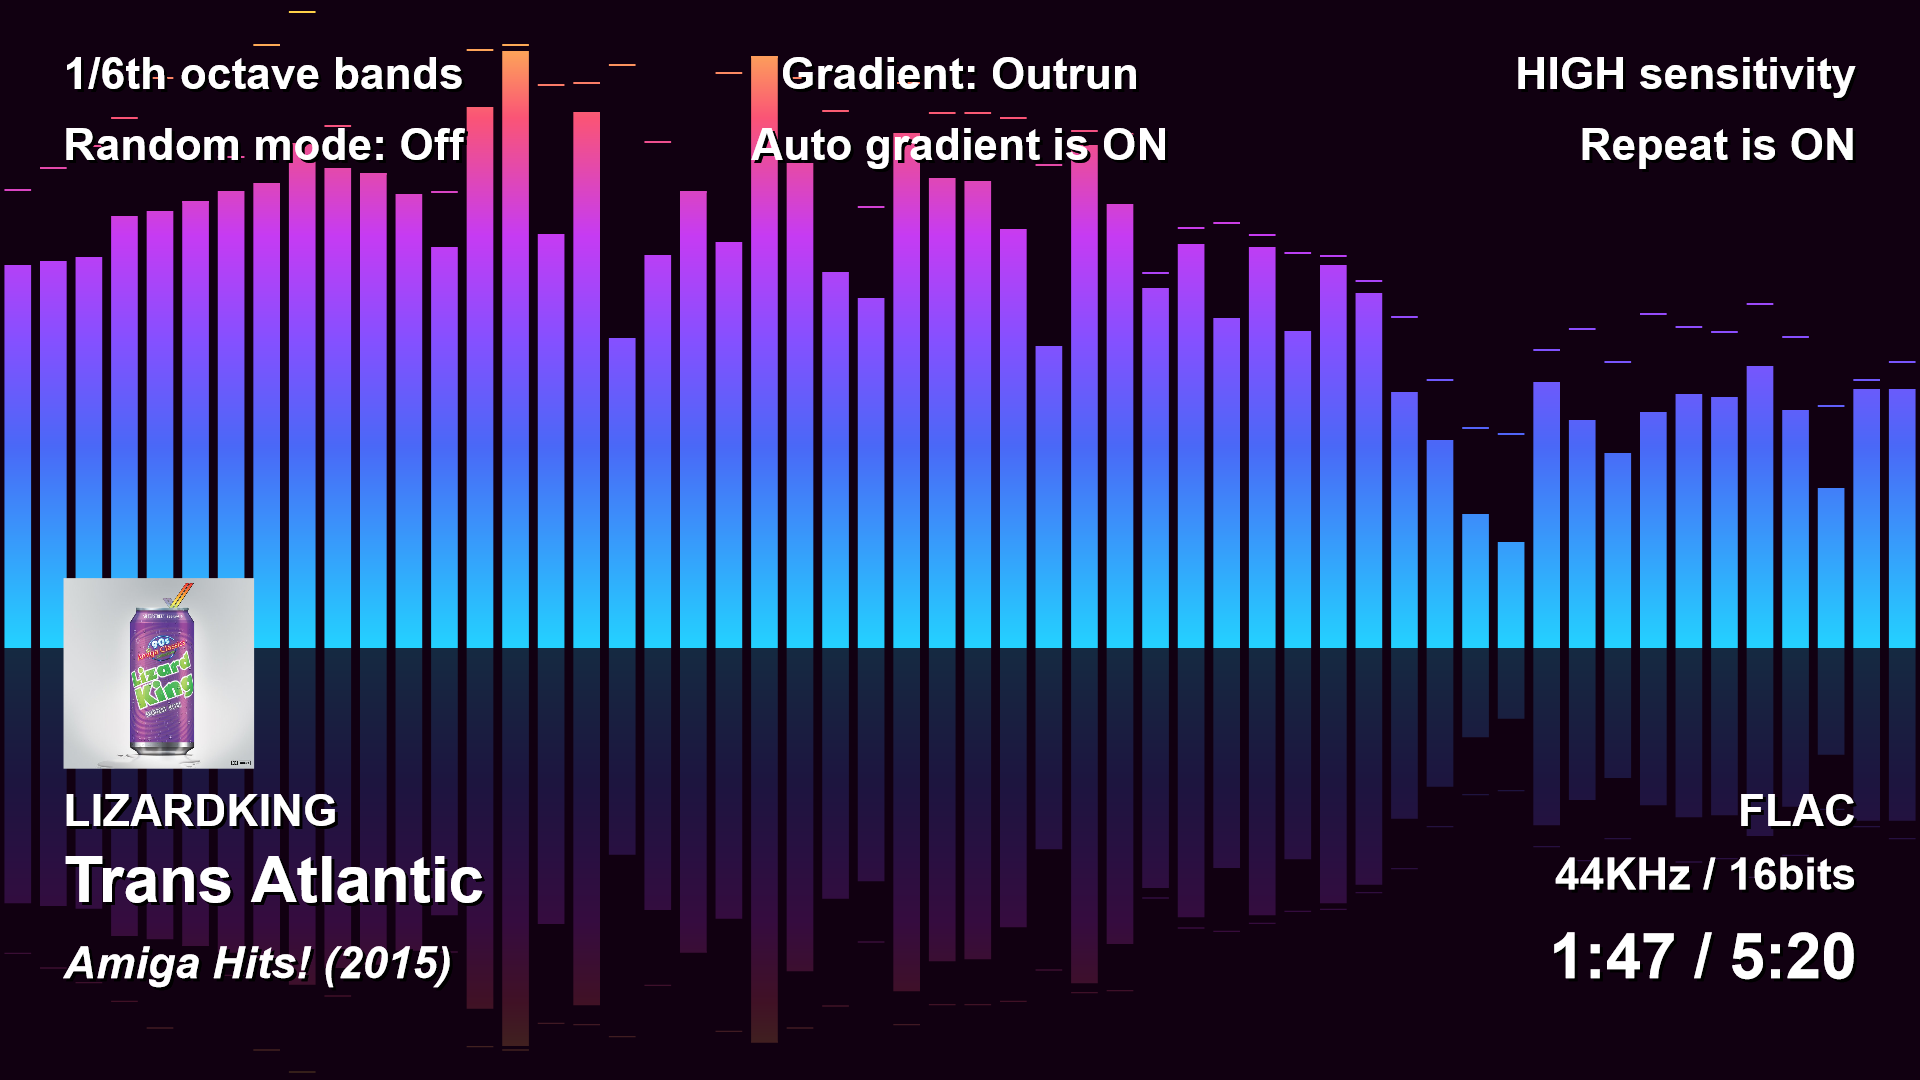
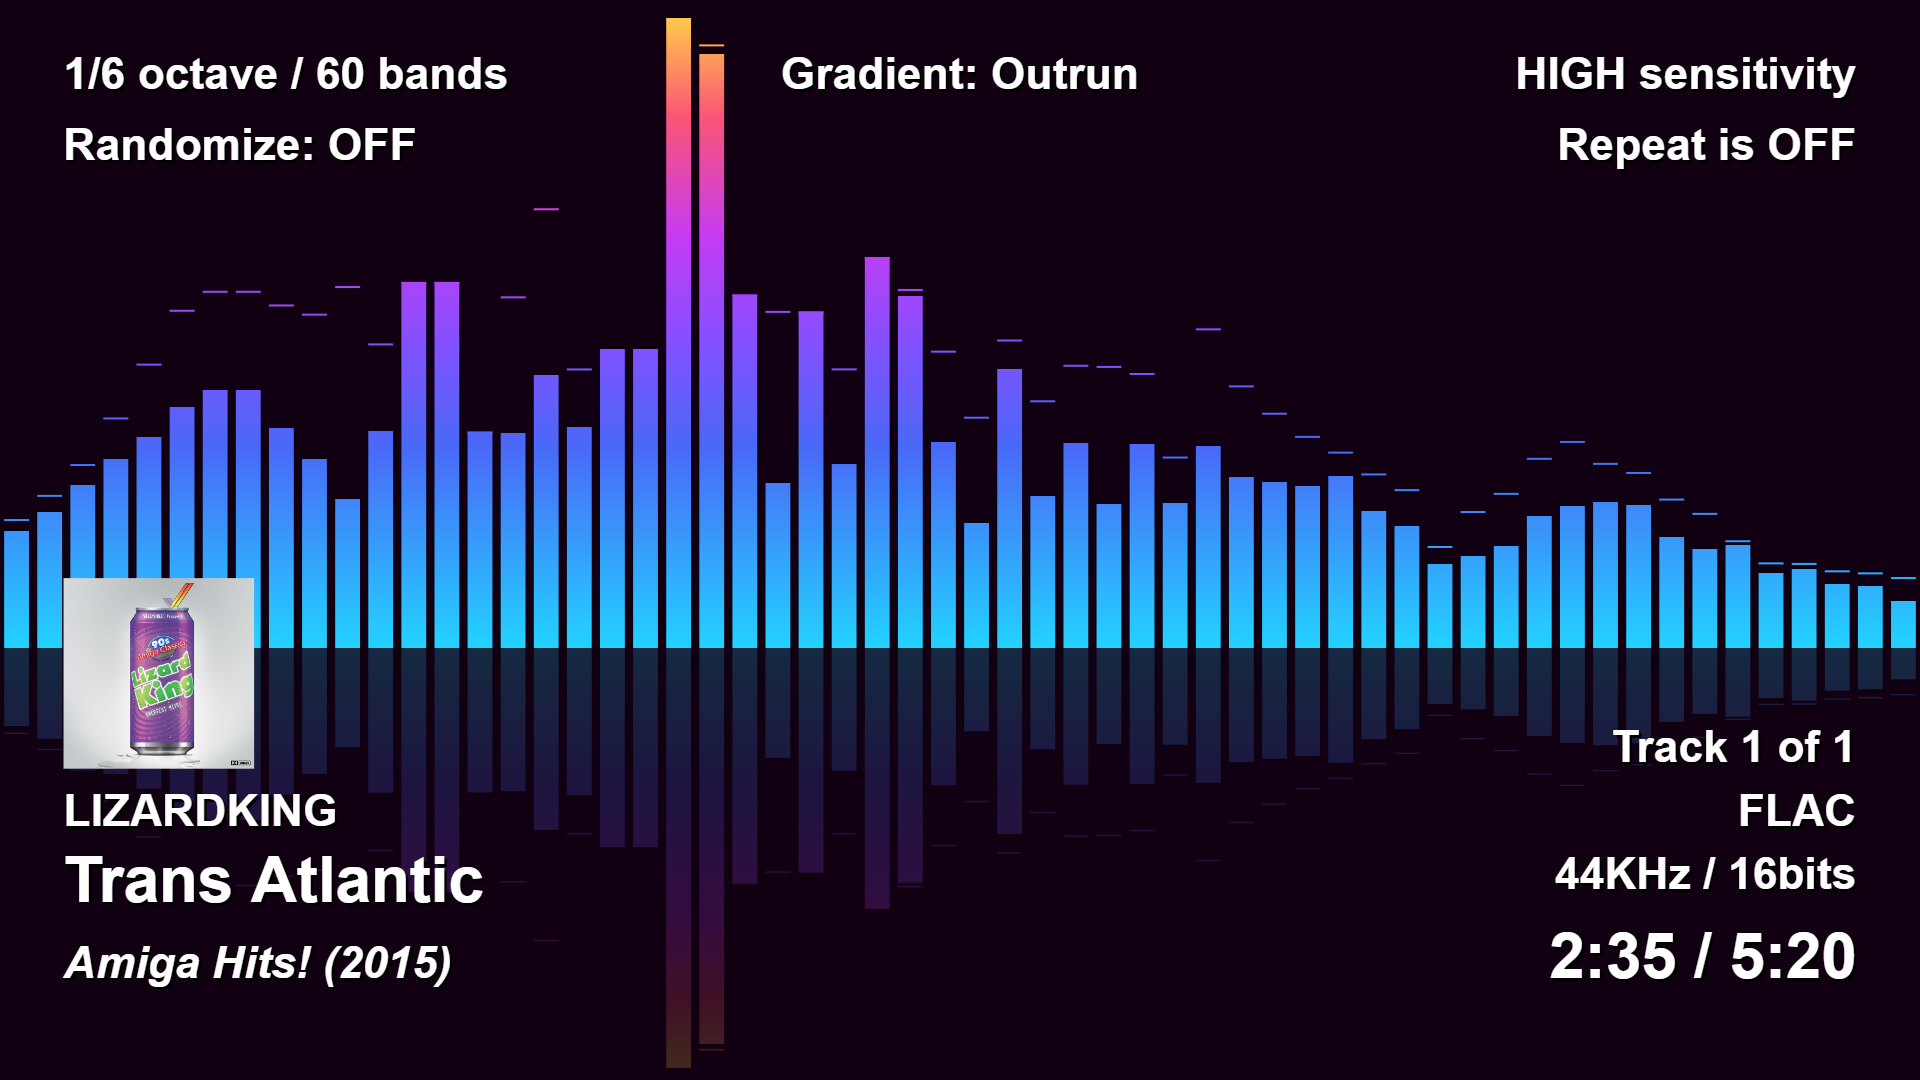
Update documentation and screenshots.

diff --git a/docs/index.html b/docs/index.html
@@ -4,13 +4,13 @@
 	<meta charset="UTF-8">
 	<title>audioMotion</title>
 	<meta http-equiv="X-UA-Compatible" content="IE=edge,chrome=1" />
-	<meta name="description" content="High-resolution real-time spectrum analyzer and media player">
+	<meta name="description" content="audioMotion | media player and real-time audio spectrum analyzer">
 	<meta name="viewport" content="width=device-width, user-scalable=no, initial-scale=1.0, maximum-scale=1.0, minimum-scale=1.0">
 	<meta property="og:url" content="https://audiomotion.app">
 	<meta property="og:title" content="audioMotion">
 	<meta property="og:image" content="https://audiomotion.app/docs/img/audioMotion-header.png">
 	<meta property="og:site_name" content="audioMotion">
-	<meta property="og:description" content="High-resolution real-time audio spectrum analyzer and media player">
+	<meta property="og:description" content="media player and real-time audio spectrum analyzer">
 	<meta property="og:type" content="website">
 	<meta name="twitter:card" content="summary_large_image">
 	<meta name="twitter:site" content="@HenriqueVianna">

diff --git a/docs/styles.css b/docs/styles.css
@@ -3,7 +3,7 @@
 	--cover-background-color: transparent;
 	--cover-background-image: none;
 	--cover-background-mask-color: #000;
-	--cover-background-mask-opacity: .5;
+	--cover-background-mask-opacity: .25;
 	--cover-blockquote-color: #f0f0f0;
 	--cover-blockquote-font-size: 2rem;
 	--cover-button-background: #023c;

diff --git a/docs/screenshots.md b/docs/screenshots.md
@@ -1,22 +1,22 @@
 # Screenshots
 
 ![screenshot1](img/screenshot1.png)
-*User interface showing the analyzer in **Discrete frequencies** mode, player controls, file explorer and play queue.*
+*User interface showing the analyzer in **Discrete frequencies** mode, player control panel and media panel (file explorer and play queue).*
 
 ![screenshot2](img/screenshot2.png)
-*Analyzer set to 1/4th-octave bands mode with LEDs effect, extra wide bar spacing and on-screen song information. The **Settings** panel is shown open below.*
+*Analyzer set to 1/4th-octave bands mode with LEDS effect and on-screen song information. The **Settings** panel is shown open over the media panel.*
+
+![screenshot4](img/screenshot4.jpg)
+*Video playback, auto-hidden media panel, analyzer set to Area graph mode, "Rainbow" gradient, Linear amplitude and Notes scale.*
 
 ![screenshot3](img/screenshot3.png)
-*Fullscreen view: 1/6th-octave bands, regular bar spacing, "Outrun" gradient, Reflex effect and complete on-screen information.*
-
-![screenshot4](img/screenshot4.png)
-*Fullscreen view: Area graph mode, "Rainbow" gradient, frequency scale on.*
+*Fullscreen view: 1/6th-octave bands, "Outrun" gradient, Reflex effect and complete on-screen information.*
 
 ![screenshot5](img/screenshot5.png)
 *Fullscreen view: 1/8th-octave bands, LUMI effect on, "Tie Dye" gradient.*
 
 ![screenshot6](img/screenshot6.png)
-*Fullscreen view: Line graph, Stereo, frequency and level scales on, "Rainbow" gradient.*
+*Fullscreen view: Line graph, Vertical dual channel layout, frequency and level scales on, "Prism" gradient.*
 
 ![screenshot7](img/screenshot7.png)
 *Fullscreen view: 1/6th-octave bands, **Radial** analyzer, frequency scale on, "Apple ][" gradient.*

diff --git a/README.md b/README.md
@@ -10,7 +10,7 @@ It is completely free, open-source software, created out of my passion for the g
 
 ![screenshot2](docs/img/screenshot2.png)
 
-* High-resolution real-time dual channel audio spectrum analyzer
+* Dual channel high-resolution real-time audio spectrum analyzer
 * Fullscreen and Picture-In-Picture support at 60fps, ready for retina / HiDPI displays
 * Logarithmic, linear and perceptual (Bark and Mel) frequency scales, with customizable range
 * Visualization of discrete FFT frequencies or up to 240 frequency bands (supports ANSI and equal-tempered octave bands)
@@ -26,13 +26,12 @@ It is completely free, open-source software, created out of my passion for the g
 > **For developers:**<br>
 > Check out [**audioMotion-analyzer**](https://audiomotion.dev) for easy integration of audioMotion's full-featured spectrum analyzer into your own Javascript projects!
 
-## Web App
+## Access the web app
 
-[![Button Icon]][Link]
+<a href="https://audiomotion.app" target="_blank" title="open web app"><img src="https://img.shields.io/badge/audioMotion.app-ff3e37?style=flat" height="48"></a>
 
-[Link]: https://audiomotion.app 'click to open web app'
-
-[Button Icon]: https://img.shields.io/badge/audioMotion.app-ff3e37?style=for-the-badge&logoColor=white&logo=Soundcharts
+**Use a Chromium-based browser to be able to play media files from your hard drive.**<br>
+Works on Chrome, Opera and Edge by default. On Brave you'll need to enable this feature in `chrome://flags/#file-system-access-api`.
 
 ## Documentation
 

diff --git a/docs/users-manual.md b/docs/users-manual.md
@@ -156,11 +156,11 @@ This setting is effective only when an [octave bands mode](#analyzer-mode) is se
 
 | Bar Spacing | Description |
 |-------------|-------------|
-**Legacy** | ~1px spacing between analyzer bars
-**Narrow** | 10% spacing, 90% bar width (default)
-**Regular** | 25% spacing, 75% bar width
-**Wide** | 50% spacing, 50% bar width
-**Extra wide** | 75% spacing, 25% bar width
+**MIN** | ~1px spacing between analyzer bars
+**10**  | 10% spacing, 90% bar width (default)
+**25**  | 25% spacing, 75% bar width
+**50**  | 50% spacing, 50% bar width
+**75**  | 75% spacing, 25% bar width
 
 ### Line Width and Fill Opacity
 
@@ -201,8 +201,8 @@ The **LINK** and **SPLIT** switches control some specific features when using a 
 
 | Switch    | Description |
 |:----------|:------------|
-| **LINK**  | Uses the same gradient for both analyzer channels
-| **SPLIT** | Splits the gradient between both channels, so each channel will have different colors (VERT channel layout only)
+| **LINK**  | Uses the same gradient for both analyzer channels.
+| **SPLIT** | Splits the gradient between both channels (**VERT** [channel layout](#channel-layout) only), so each channel will use different colors.
 
 ### Color Mode
 
